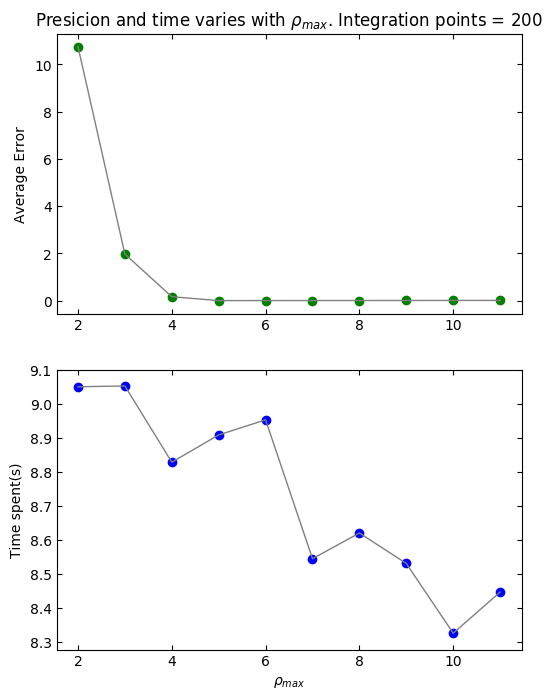
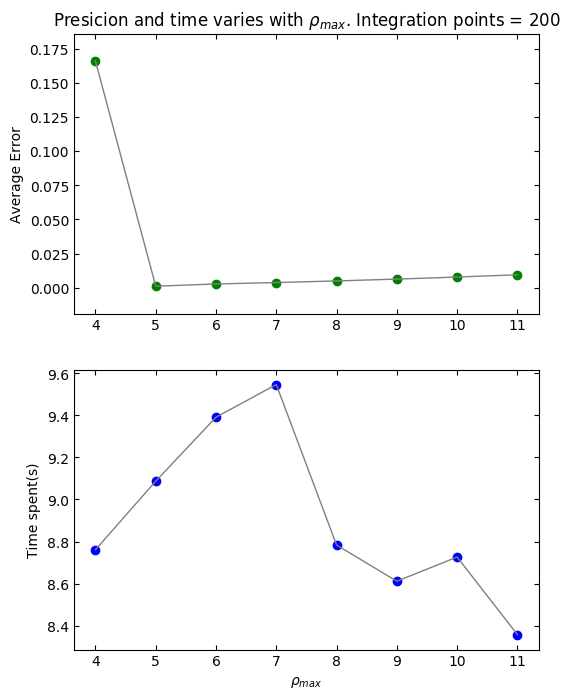
error_fixing

diff --git a/Code/main_rho.cpp b/Code/main_rho.cpp
@@ -21,7 +21,7 @@ int main() {
   string filename = "Rho-VS-Error";
   ofile.open(filename);
 
-  for (i = 3; i < 12; i++){
+  for (i = 4; i < 12; i++){
 
     double Rho_N = i*1.0;                //Defining the approximation of infinity
     int N = 200;                      //Defining number of integration points

diff --git a/Code/README.md b/Code/README.md
@@ -2,5 +2,5 @@
 
 You can choose either to test how different approximations of $\rho_{max}$ changes the time spent, and the error, or test how different number of integration points, N, changes time and error.
 
-To compile code for N-testing, edit the makefile to compile main.cpp.
+To compile code for N-testing, edit the makefile to compile main.cpp.\
 To compile code for $\rho_{max}$-testing, edit the makefile to compile main_rho.cpp
